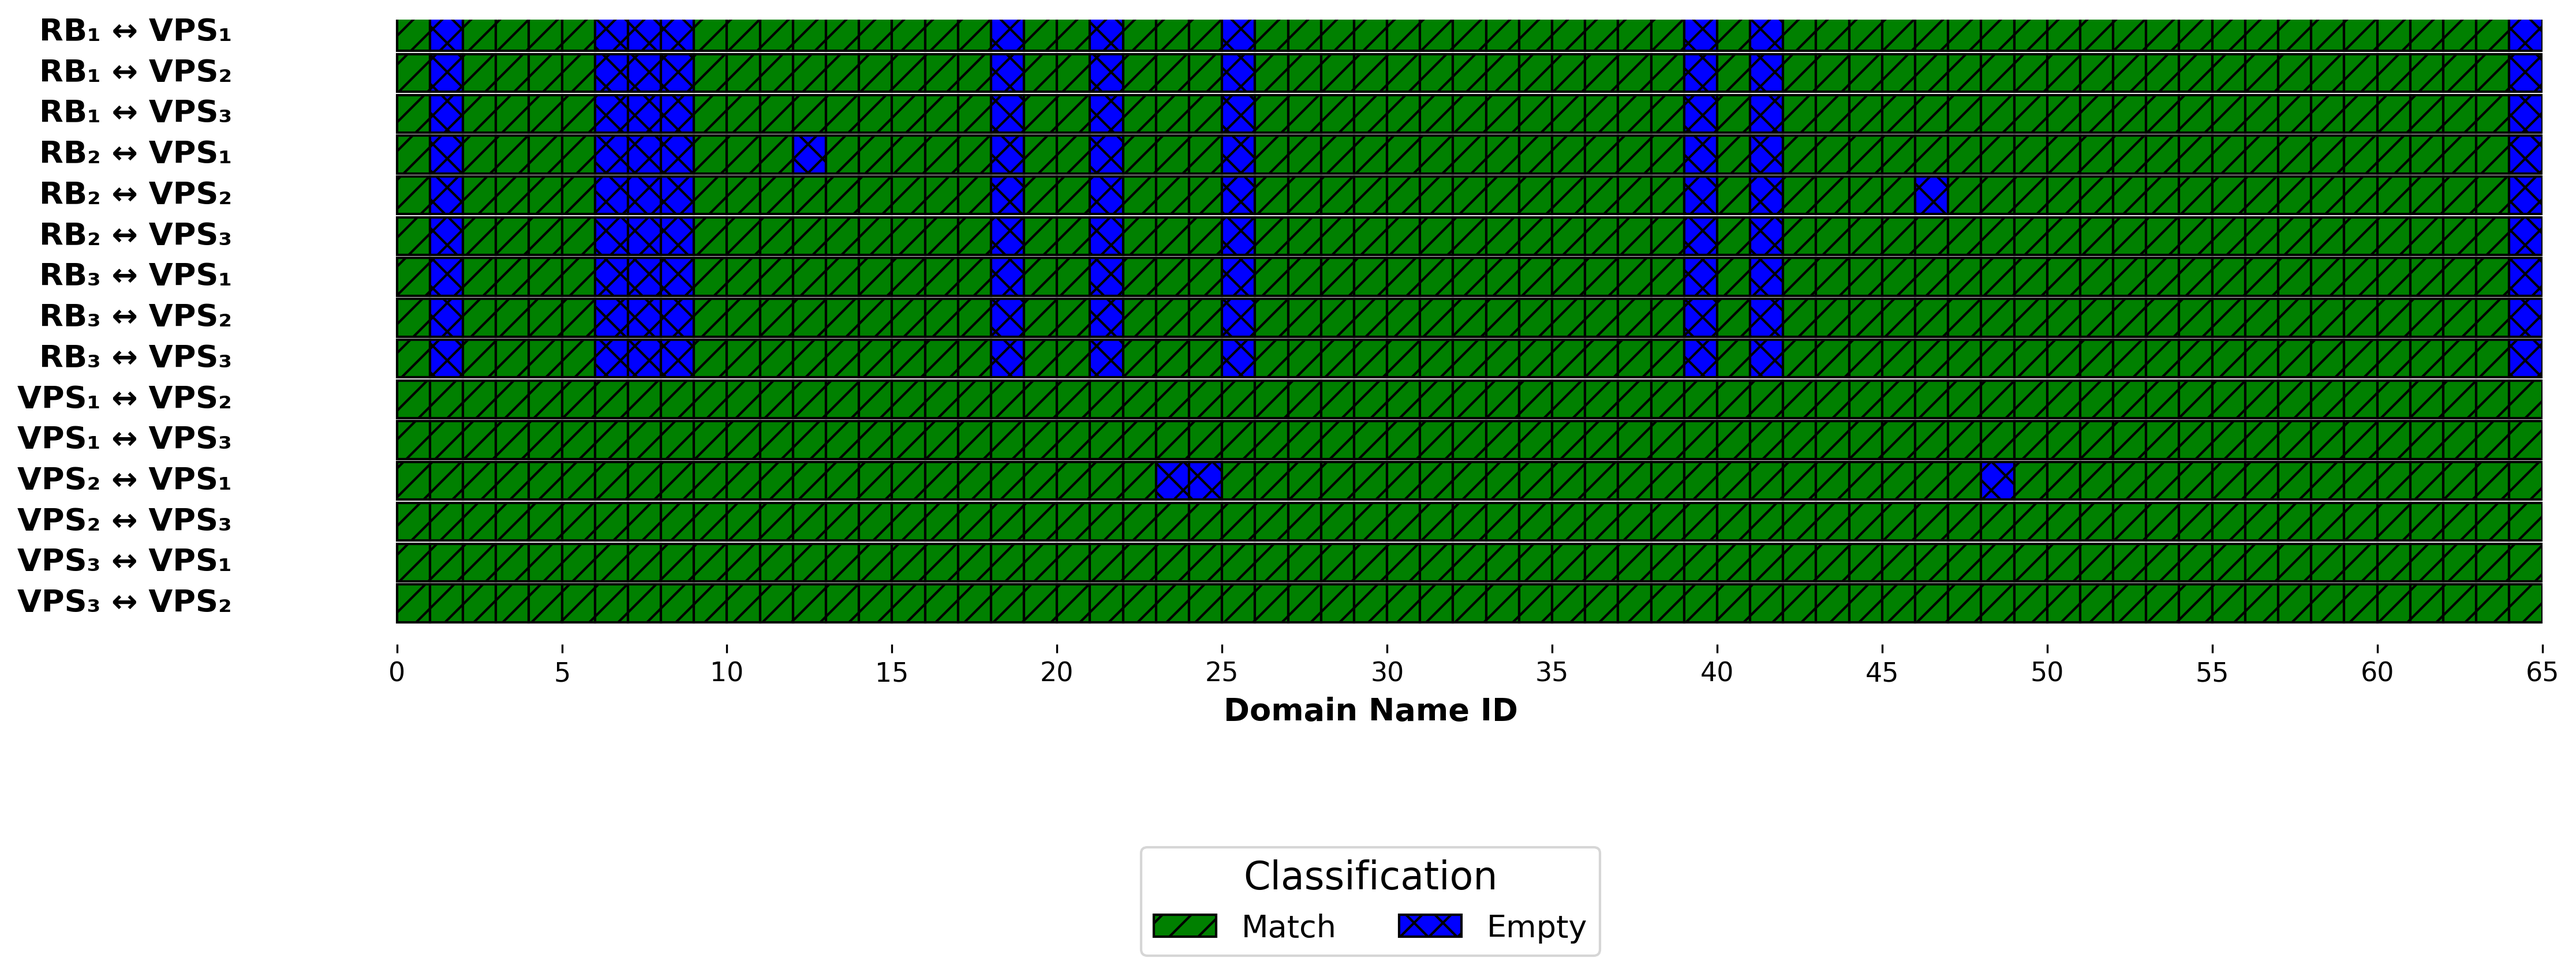
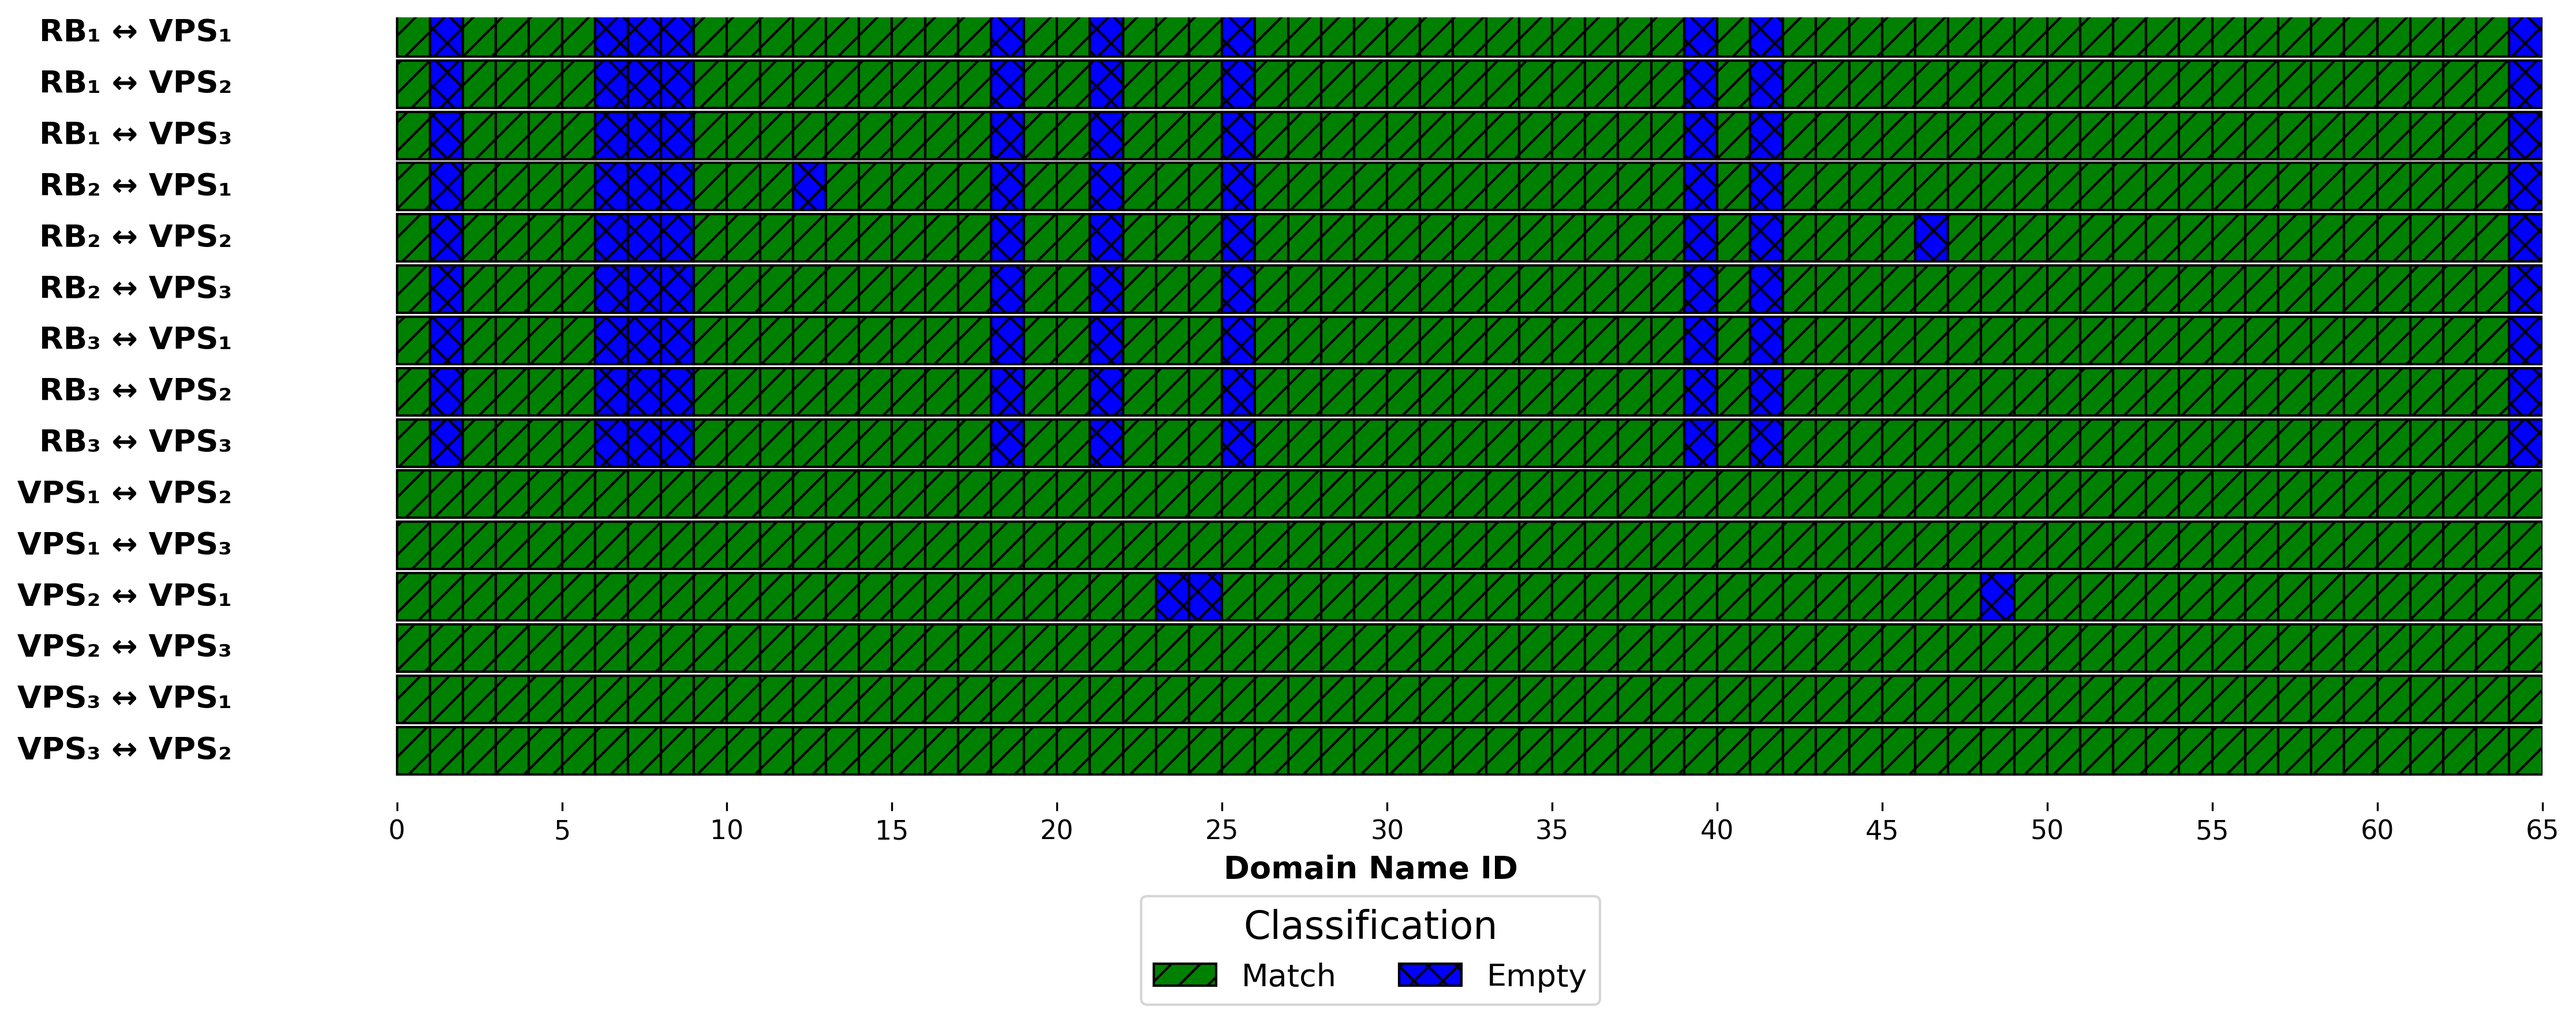
close legend a bit to the top

diff --git a/http_simple_all_workers_conformance.py b/http_simple_all_workers_conformance.py
@@ -178,7 +178,7 @@ def plot_classification_group(protocol, output_file):
         title_fontsize=16,
         fontsize=13,
         loc='upper center',
-        bbox_to_anchor=(0.5, -0.3),
+        bbox_to_anchor=(0.5, -0.1),
         ncol=4,
         frameon=True
     )

diff --git a/dns_all_workers.py b/dns_all_workers.py
@@ -142,7 +142,7 @@ ax.legend(
     title_fontsize=16,
     fontsize=13,
     loc='upper center',
-    bbox_to_anchor=(0.5, -0.3),
+    bbox_to_anchor=(0.5, -0.1),
     ncol=4,
     frameon=True
 )

diff --git a/http_conformance_all_workers.py b/http_conformance_all_workers.py
@@ -136,7 +136,7 @@ ax.legend(
     title_fontsize=16,
     fontsize=13,
     loc='upper center',
-    bbox_to_anchor=(0.5, -0.3),
+    bbox_to_anchor=(0.5, -0.1),
     ncol=4,
     frameon=True
 )

diff --git a/https_conformance_all_workers.py b/https_conformance_all_workers.py
@@ -121,7 +121,7 @@ ax.legend(
     title_fontsize=16,
     fontsize=13,
     loc='upper center',
-    bbox_to_anchor=(0.5, -0.3),
+    bbox_to_anchor=(0.5, -0.1),
     ncol=4,
     frameon=True
 )
